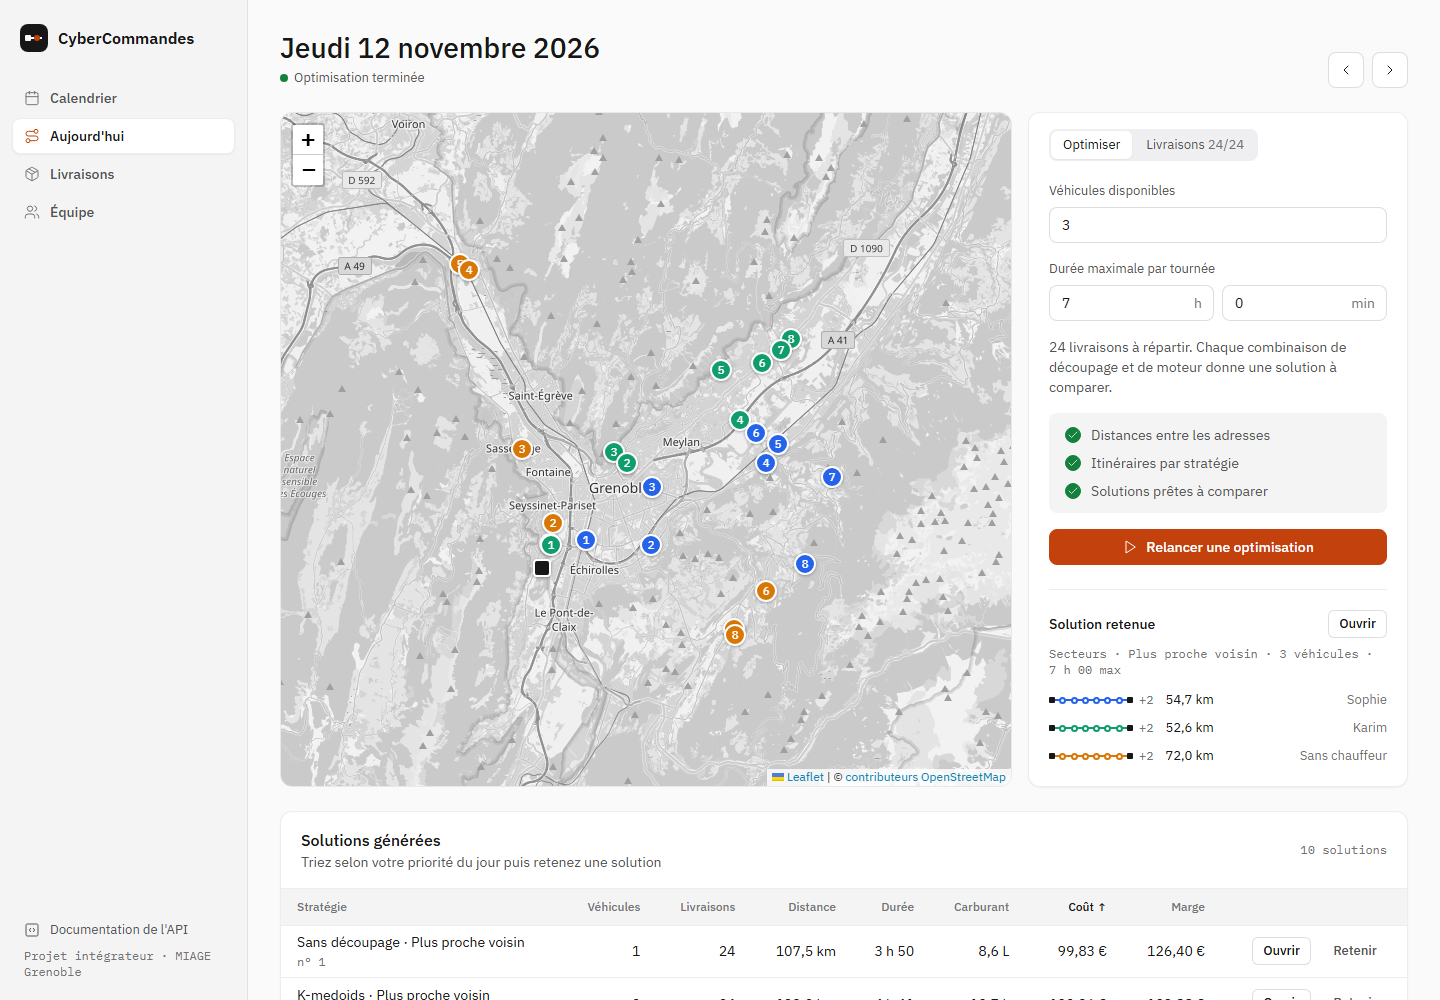
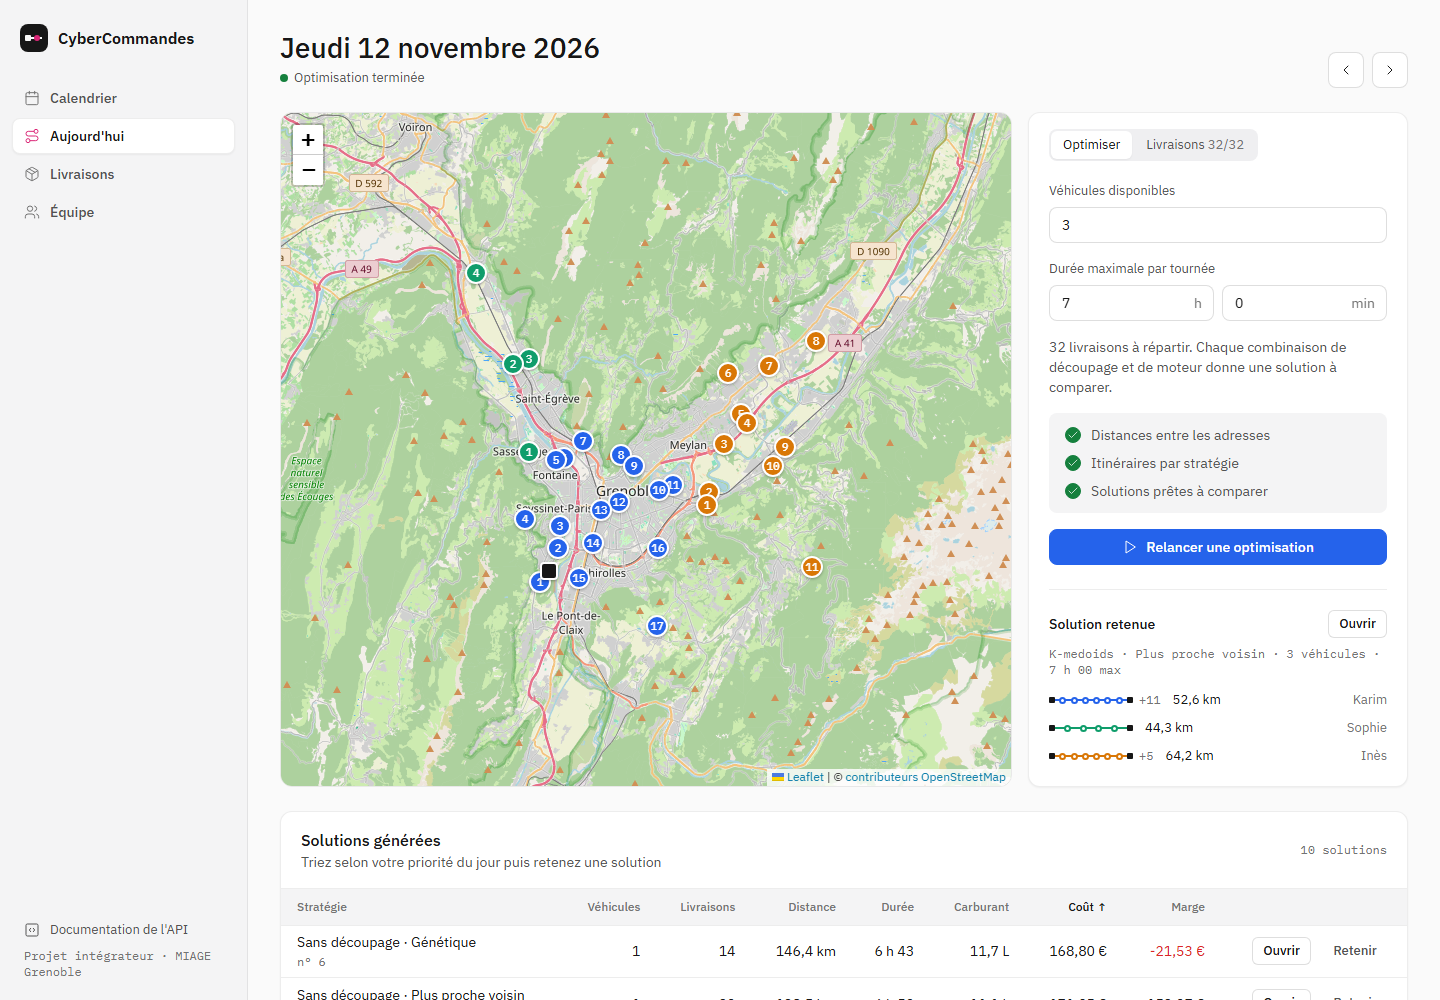
docs: algorithmes détaillés, nouvelles captures et image d'aperçu GitHub
- docs/algorithmes.md : matrices, découpages (secteurs, K-medoids), moteurs (VROOM,
  génétique, plus proche voisin), contrainte de durée, nombre de solutions et coûts
- tableau des algorithmes dans le README
- captures refaites avec la nouvelle palette et le jeu d'essai, image d'aperçu 1280 × 640

diff --git a/docs/algorithmes.md b/docs/algorithmes.md
@@ -1,0 +1,218 @@
+# Algorithmes
+
+Ce document décrit les algorithmes qui construisent les tournées, tels qu'ils sont codés, avec
+leurs paramètres réels.
+
+## Le problème
+
+Il faut répartir *n* livraisons entre *k* véhicules partant d'un même dépôt et y revenant, en
+parcourant le moins de distance possible et sans dépasser une durée maximale par tournée.
+C'est un **problème de tournées de véhicules** (VRP, *Vehicle Routing Problem*). Il est
+NP-difficile : on ne peut pas essayer toutes les solutions dès que *n* dépasse quelques dizaines.
+
+L'application le découpe donc en deux sous-problèmes plus simples, puis compare plusieurs façons
+de les résoudre :
+
+```mermaid
+flowchart LR
+    M[Matrices<br/>distances et durées] --> S{1. Découpage}
+    S -->|Sans découpage| O
+    S -->|Secteurs angulaires| O
+    S -->|K-medoids| O
+    O{2. Ordre de passage} -->|VROOM| C
+    O -->|Génétique| C
+    O -->|Plus proche voisin| C
+    C[3. Durée maximale] --> R[(Solution)]
+```
+
+| Étape | Algorithmes | Code |
+|---|---|---|
+| Matrices | OpenRouteService, ou estimation à vol d'oiseau | [`DistanceMatrixService`](../backend/server/src/main/java/fr/uga/miage/l3/services/core/DistanceMatrixService.java), [`EstimatedMatrix`](../backend/server/src/main/java/fr/uga/miage/l3/services/core/EstimatedMatrix.java) |
+| 1. Découpage | Sans découpage, secteurs angulaires, K-medoids | [`services/core/separation`](../backend/server/src/main/java/fr/uga/miage/l3/services/core/separation/) |
+| 2. Ordre de passage | VROOM, algorithme génétique, plus proche voisin | [`services/optimisation/routing`](../backend/server/src/main/java/fr/uga/miage/l3/services/optimisation/routing/), [`services/core/optimization`](../backend/server/src/main/java/fr/uga/miage/l3/services/core/optimization/) |
+| 3. Contrainte | Retrait des commandes les plus récentes | [`MaxDurationConstraint`](../backend/server/src/main/java/fr/uga/miage/l3/services/optimisation/MaxDurationConstraint.java) |
+
+## Les données d'entrée : les matrices
+
+Tous les algorithmes travaillent sur deux matrices carrées de taille *n* + 1, les livraisons
+puis le dépôt en dernière position :
+
+- `distance[i][j]` : mètres par la route de *i* à *j* ;
+- `durée[i][j]` : secondes de conduite de *i* à *j*.
+
+**Avec une clé OpenRouteService**, les matrices viennent de l'API *Matrix* d'ORS :
+
+- ORS limite la taille d'une requête : on découpe en blocs de 50 × 50 points et on recolle les
+  blocs. 120 points demandent ainsi 3 × 3 = 9 appels ;
+- le débit est plafonné à 35 appels par minute (Resilience4j) ;
+- un appel en échec est réessayé jusqu'à 5 fois, avec un délai qui double (0,5 s, 1 s, 2 s…).
+  Sur une erreur 429, on attend le délai `Retry-After` indiqué par ORS.
+
+**Sans clé** (mode estimation), les matrices sont calculées localement :
+
+- distance = formule de **haversine** (distance à vol d'oiseau sur la sphère terrestre)
+  × 1,3, car en ville on parcourt environ 30 % de plus qu'à vol d'oiseau ;
+- durée = distance ÷ 30 km/h, une vitesse moyenne urbaine.
+
+C'est moins précis, mais assez juste pour comparer des stratégies entre elles.
+
+## 1. Découpage : un groupe par véhicule
+
+### Sans découpage
+
+Toutes les livraisons forment un seul groupe. Le moteur d'itinéraire reçoit *k* véhicules et
+répartit lui-même, ce que seul VROOM sait faire. Pattern utilisé : **Null Object** : « pas de
+découpage » est une stratégie comme les autres, ce qui évite des `if` dans le pipeline.
+
+### Secteurs angulaires
+
+On découpe le plan autour du dépôt comme les parts d'un gâteau :
+
+1. pour chaque livraison, on calcule l'angle θ = `atan2(Δlat, Δlng)` par rapport au dépôt,
+   ramené entre 0° et 360° ;
+2. on trie les livraisons par angle ;
+3. on coupe la liste en *k* paquets consécutifs de ⌈*n* / *k*⌉ livraisons.
+
+- **Avantage** : très rapide (tri en O(*n* log *n*)), tournées de tailles équilibrées, qui ne se
+  croisent pas.
+- **Limite** : un quartier dense peut être coupé en deux si une frontière de secteur le traverse.
+  Les distances routières ne sont pas utilisées.
+
+### K-medoids
+
+On forme *k* groupes de livraisons proches, chacun organisé autour d'un **medoid** : une
+livraison réelle qui sert de centre au groupe.
+
+1. **Initialisation.** Le premier medoid est tiré au hasard parmi les livraisons. Chaque medoid
+   suivant est la livraison la plus éloignée des medoids déjà choisis (« point le plus lointain »).
+   Les centres de départ sont ainsi bien répartis.
+2. **Affectation.** Chaque livraison rejoint le medoid le plus proche, selon la matrice des
+   distances routières.
+3. **Mise à jour.** Dans chaque groupe, le nouveau medoid est la livraison dont la somme des
+   distances aux autres membres est la plus petite.
+4. On répète les étapes 2 et 3 tant que les medoids changent, avec 50 itérations au plus.
+
+Le nombre de groupes vaut au plus le nombre de livraisons. Un groupe vide est supprimé.
+
+**Pourquoi des medoids plutôt que K-means ?** K-means place ses centres en des points moyens qui
+n'existent pas, et suppose une distance euclidienne. K-medoids n'a besoin que de la matrice des
+distances : il fonctionne donc avec les vraies distances routières, et une rivière ou une
+autoroute est bien prise en compte. Chaque itération coûte O(*n*²) au pire, à cause de la mise à
+jour des medoids.
+
+## 2. Ordre de passage dans chaque groupe
+
+### VROOM
+
+[VROOM](https://github.com/VROOM-Project/vroom) est un solveur open source de problèmes de
+tournées, exposé par OpenRouteService (endpoint `/optimization`). On lui envoie :
+
+- les **véhicules** : départ et retour au dépôt, profil `driving-car` et `max_travel_time`
+  égal à la durée maximale demandée ;
+- les **tâches** : position de chaque livraison et temps de service égal à son temps de montage.
+
+VROOM construit des tournées par des heuristiques d'insertion, puis les améliore par recherche
+locale. Il gère nativement plusieurs véhicules et la contrainte de temps : c'est le seul moteur
+utilisé « sans découpage » avec plusieurs véhicules. Après un découpage, il reçoit un seul
+véhicule par groupe.
+
+Il n'est pas disponible en mode estimation, car il a besoin d'ORS.
+
+### Algorithme génétique
+
+L'algorithme imite une sélection naturelle sur des ordres de passage, avec la bibliothèque
+[Jenetics](https://jenetics.io/).
+
+| Élément | Choix |
+|---|---|
+| Individu | Une permutation des livraisons du groupe (un ordre de passage) |
+| Note (*fitness*) | 1 / (distance totale dépôt → livraisons → dépôt + 0,001), à maximiser |
+| Population | 100 individus tirés au hasard |
+| Générations | 1 000 |
+| Sélection | Tournoi de 2 : on garde le meilleur de deux individus tirés au hasard |
+| Croisement | Probabilité 0,5, sur des paires voisines |
+| Mutation | Probabilité 0,1 : *n* / 2 échanges de deux livraisons au hasard |
+
+**Le croisement** doit produire une permutation valide : chaque livraison une seule fois.
+
+1. Il choisit au hasard quel parent est « gardé », puis s'il garde ses positions paires ou
+   impaires.
+2. L'enfant reprend ces positions du parent gardé.
+3. Il remplit les trous avec les livraisons manquantes, dans l'ordre où elles apparaissent chez
+   l'autre parent.
+
+Exemple : avec `0 1 2 3` et `3 2 1 0`, si l'on garde les positions impaires du premier parent,
+l'enfant vaut `_ 1 _ 3`. On le complète avec 2 puis 0 (l'ordre du second parent) : `2 1 0 3`.
+
+**La mutation** par échanges garde elle aussi une permutation valide. Le `+ 0,001` de la note
+évite une division par zéro quand toutes les livraisons sont au même endroit.
+
+Le coût est d'environ 100 × 1 000 évaluations de O(*n*), de l'ordre de la seconde par groupe.
+L'algorithme trouve souvent de bons ordres sans garantie d'optimum. Les tests vérifient qu'il
+trouve le tour optimal sur un petit carré.
+
+### Plus proche voisin (glouton)
+
+L'heuristique la plus simple :
+
+1. partir du dépôt ;
+2. aller à la livraison non visitée la plus proche, selon la matrice des distances ;
+3. recommencer jusqu'à ce que tout soit visité, puis rentrer au dépôt.
+
+- **Avantage** : instantané (O(*n*²)), déterministe, souvent à 20-25 % de l'optimum.
+- **Limite** : il prend toujours le plus proche, sans anticiper. La fin de tournée comporte
+  souvent un long retour.
+
+## 3. Contrainte de durée maximale
+
+Une fois les tournées calculées, on vérifie chacune :
+
+> durée = Σ trajets (dépôt → … → dépôt) + Σ temps de montage
+
+Tant que la durée dépasse le maximum, on retire de la tournée la livraison dont la **date de
+commande est la plus récente**. Les clients qui attendent depuis le plus longtemps restent ainsi
+prioritaires. Les livraisons retirées restent « à livrer » pour une prochaine optimisation. Une
+tournée devenue vide est supprimée.
+
+## Combien de solutions ?
+
+Le pipeline essaie toutes les combinaisons découpage × moteur × nombre de véhicules (de *k* à 1),
+sauf celles qui n'ont pas de sens :
+
+- un découpage n'a pas d'intérêt avec un seul véhicule ;
+- sans découpage, seul VROOM sait répartir entre plusieurs véhicules.
+
+| Mode | Formule | 1 véhicule | 3 véhicules | 5 véhicules |
+|---|---|---|---|---|
+| Avec clé ORS | 7*k* − 4 | 3 | 17 | 31 |
+| Mode estimation (sans VROOM) | 4*k* − 2 | 2 | 10 | 18 |
+
+Chaque combinaison est une tâche indépendante, exécutée en parallèle sur un pool de threads
+dédié. Les solutions arrivent dans l'interface au fil du calcul.
+
+## Statistiques et coûts d'une tournée
+
+| Grandeur | Calcul |
+|---|---|
+| Distance | Somme des distances de la matrice sur le parcours dépôt → … → dépôt |
+| Temps de trajet | Même somme sur la matrice des durées |
+| Carburant (mL) | distance (m) × consommation (L/100 km) ÷ 100. Consommation du véhicule affecté, 8 L/100 km par défaut |
+| Coût carburant | litres × prix du litre (1,80 € par défaut) |
+| Coût chauffeur | (trajet + montage) en heures × taux horaire du chauffeur (22 €/h par défaut) |
+| Recette | nombre de livraisons × 9 € + poids total × 0,15 €/kg |
+| Marge | recette − coût carburant − coût chauffeur |
+
+Les valeurs par défaut se règlent dans `application.yml` (`app.couts`). Après une modification
+manuelle d'une solution, distances et durées sont recalculées sur les vrais trajets, dans l'ordre
+choisi par le planificateur.
+
+## Pour aller plus loin
+
+Pistes d'amélioration identifiées :
+
+- **2-opt** après le glouton : inverser des segments de tournée tant que cela raccourcit le
+  parcours. Gain typique de 5 à 10 %.
+- **Capacité dans le découpage** : la charge utile n'est aujourd'hui vérifiée qu'à
+  l'affectation d'un véhicule. On pourrait l'intégrer comme contrainte de K-medoids.
+- **Graine aléatoire fixée** pour K-medoids et le génétique, afin de rendre deux optimisations
+  identiques comparables.

diff --git a/docs/architecture.md b/docs/architecture.md
@@ -1,7 +1,8 @@
 # Architecture
 
 Ce document explique comment le code est organisé et pourquoi. Il s'adresse à un développeur
-qui reprend le projet ou qui veut le relire.
+qui reprend le projet ou qui veut le relire. Le détail des algorithmes est dans
+[algorithmes.md](algorithmes.md).
 
 ## Vue d'ensemble
 
